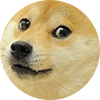
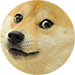
changed the size of the ball

diff --git a/game.py b/game.py
@@ -3,8 +3,8 @@ import math
 
 SCREEN_WIDTH = 800
 SCREEN_HEIGHT = 600 
-BALL_WIDTH = 100 
-BALL_HEIGHT = 100 
+BALL_WIDTH = 75
+BALL_HEIGHT = 75
 PLAYER_WIDTH = 300
 PLAYER_HEIGHT = 25
 
